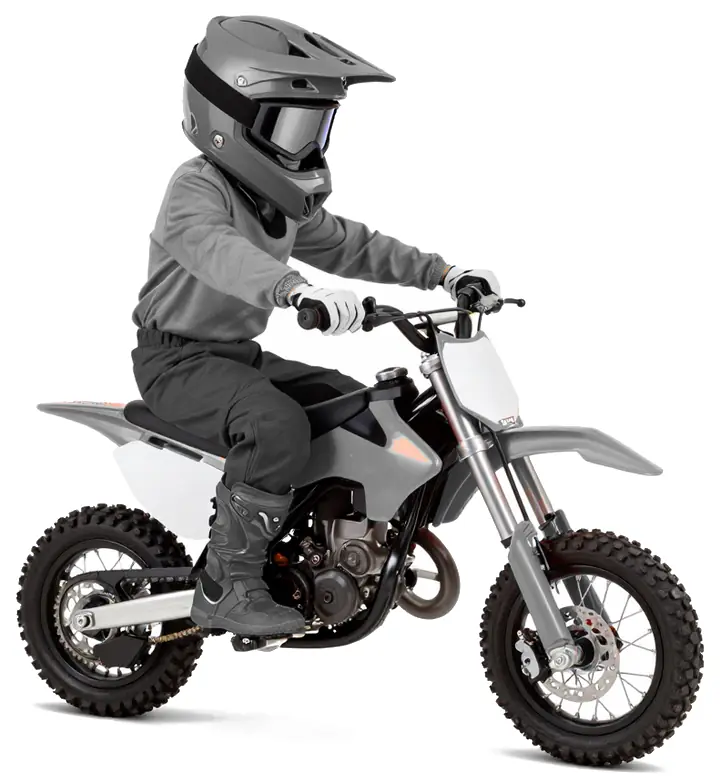
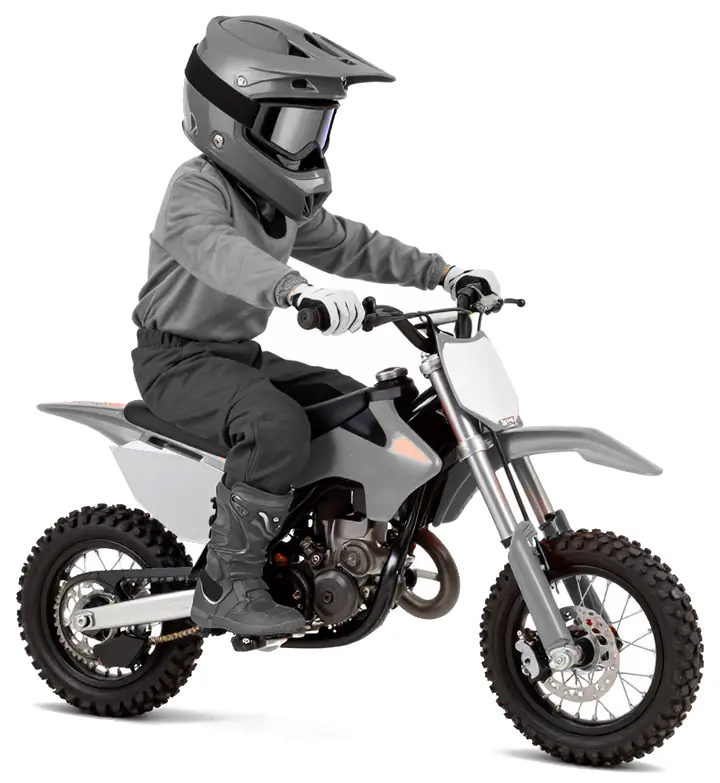
Mini's side panel shows properly behind its number

Changed region(s): [[0.1528, 0.5517, 0.3056, 0.705]]

diff --git a/sw.js b/sw.js
@@ -1,7 +1,7 @@
 /* Lets Holeshot open with no internet once it has been opened online.
    Pages come from the network when it answers quickly, so updates reach the boys straight away.
    build.mjs fills in the version and the file list. */
-const CACHE = 'holeshot-b76ff8c7b9';
+const CACHE = 'holeshot-8217e57029';
 const FILES = ["./","manifest.webmanifest","img/bike-enduro.webp","img/bike-factory.webp","img/bike-hard.webp","img/bike-mini.webp","img/bike-mx.webp","img/enduro-boots.webp","img/enduro-boots2.webp","img/enduro-gloves.webp","img/enduro-helmet.webp","img/enduro-jersey.webp","img/enduro-jersey2.webp","img/enduro-lens.webp","img/enduro-pants.webp","img/enduro-pants2.webp","img/enduro-peak.webp","img/enduro-plastic.webp","img/enduro-shade.webp","img/factory-boots.webp","img/factory-boots2.webp","img/factory-gloves.webp","img/factory-helmet.webp","img/factory-jersey.webp","img/factory-jersey2.webp","img/factory-lens.webp","img/factory-pants.webp","img/factory-pants2.webp","img/factory-peak.webp","img/factory-plastic.webp","img/factory-shade.webp","img/finish.webp","img/hard-boots.webp","img/hard-boots2.webp","img/hard-gloves.webp","img/hard-helmet.webp","img/hard-jersey.webp","img/hard-jersey2.webp","img/hard-lens.webp","img/hard-pants.webp","img/hard-pants2.webp","img/hard-peak.webp","img/hard-plastic.webp","img/hard-shade.webp","img/hero-jump.webp","img/icon-180.png","img/icon-192.png","img/icon-512.png","img/main-event.webp","img/mini-boots.webp","img/mini-boots2.webp","img/mini-gloves.webp","img/mini-helmet.webp","img/mini-jersey.webp","img/mini-jersey2.webp","img/mini-lens.webp","img/mini-pants.webp","img/mini-pants2.webp","img/mini-peak.webp","img/mini-plastic.webp","img/mini-shade.webp","img/mx-boots.webp","img/mx-boots2.webp","img/mx-gloves.webp","img/mx-helmet.webp","img/mx-jersey.webp","img/mx-jersey2.webp","img/mx-lens.webp","img/mx-pants.webp","img/mx-pants2.webp","img/mx-peak.webp","img/mx-plastic.webp","img/mx-shade.webp","img/photo-enduro.webp","img/photo-factory.webp","img/photo-hard.webp","img/photo-mini.webp","img/photo-mx.webp","img/stop-bends.webp","img/stop-berm.webp","img/stop-climb.webp","img/stop-gate.webp","img/stop-log.webp","img/stop-mud.webp","img/stop-river.webp","img/stop-rocks.webp","img/stop-table.webp","img/stop-whoops.webp"];
 
 self.addEventListener('install', (e) => {
